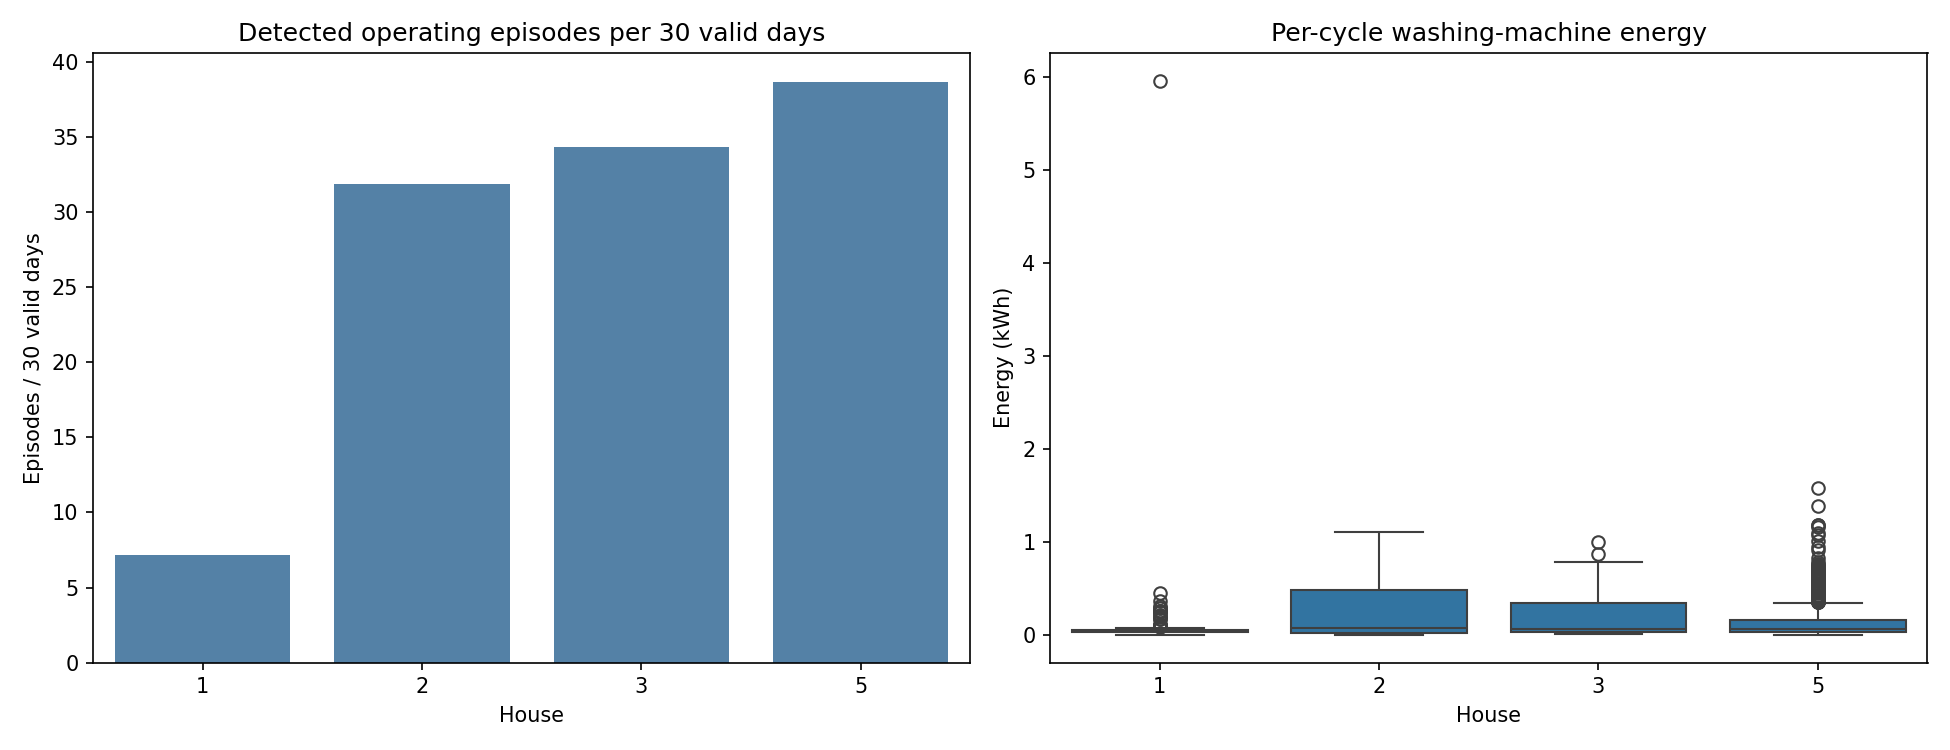
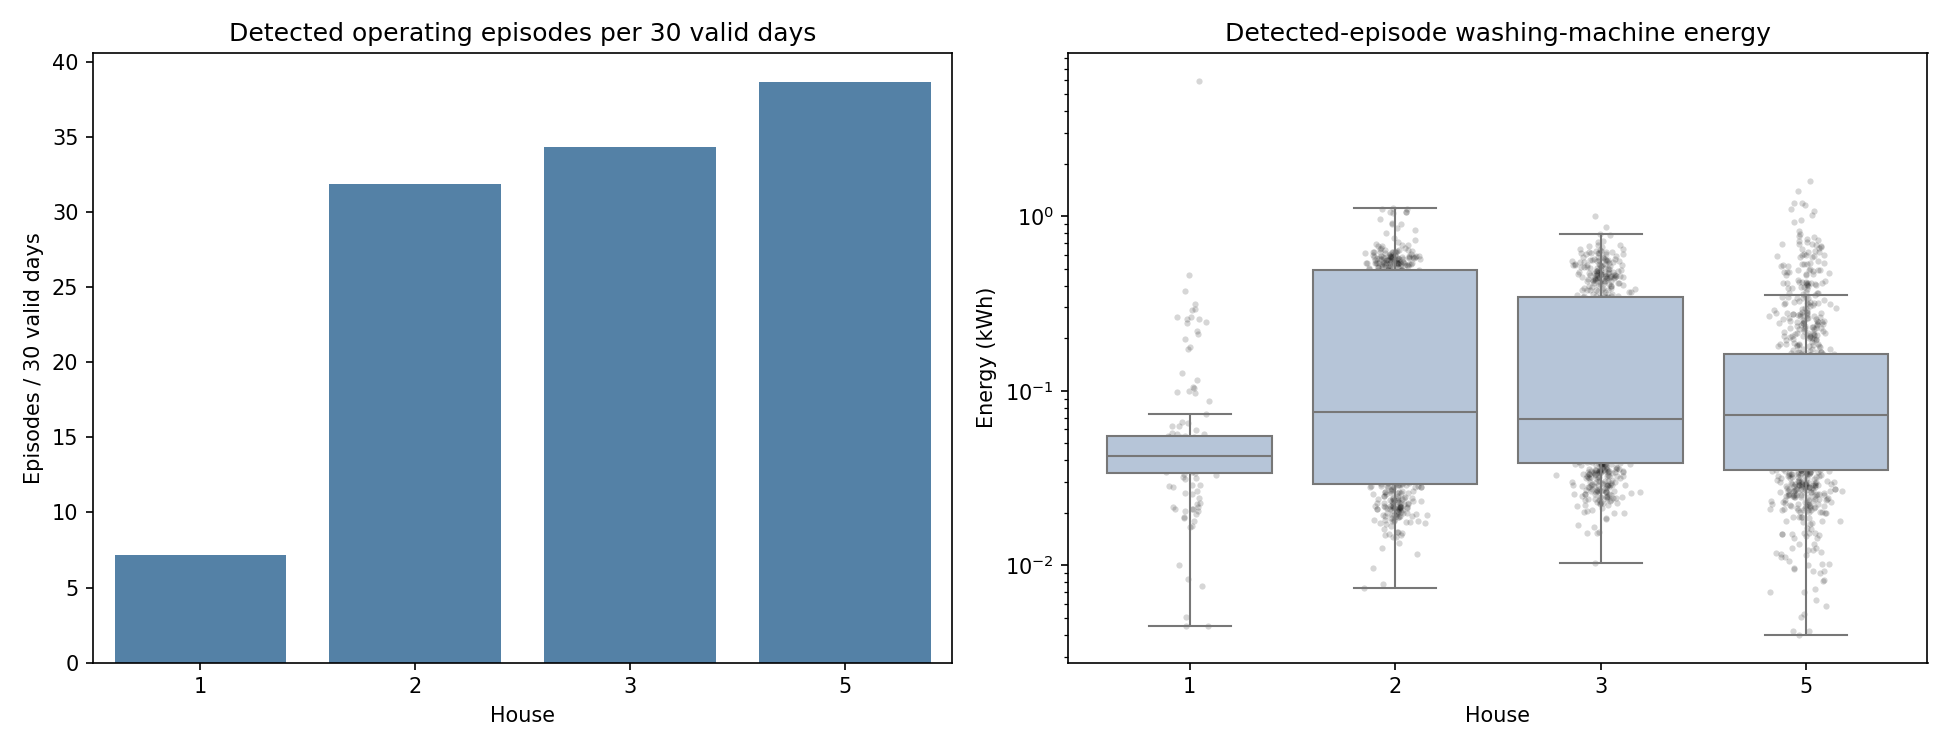
Expand washing machine EDA and organize reports

diff --git a/src/section2_washing_machine_eda.py b/src/section2_washing_machine_eda.py
@@ -3,6 +3,7 @@
 from pathlib import Path
 
 import matplotlib.pyplot as plt
+import numpy as np
 import pandas as pd
 import seaborn as sns
 
@@ -22,6 +23,7 @@ def quality_summary(
 ) -> dict[str, int | float | str]:
     target = data["WashingMachine"]
     observed = target.notna()
+    active = observed & target.ge(WASHING_MACHINE_ACTIVE_THRESHOLD_W)
     daily_coverage = observed.groupby(data.index.normalize()).mean()
     valid_days = daily_coverage[daily_coverage >= 0.90].index
     valid_day_cycles = (
@@ -47,6 +49,10 @@ def quality_summary(
         ),
         "observed_washing_machine_minutes": int(observed.sum()),
         "days_with_at_least_90pct_target_coverage": len(valid_days),
+        "active_washing_machine_minutes": int(active.sum()),
+        "active_percent_of_observed_minutes": (
+            100 * active.sum() / observed.sum() if observed.sum() else 0.0
+        ),
         "off_minutes_below_10_w": int(off.sum()),
         "off_percent_of_observed_minutes": (
             100 * off.mean() if len(off) else 0.0
@@ -64,6 +70,12 @@ def quality_summary(
         ),
         "median_cycle_energy_kwh": (
             float(cycles["energy_kwh"].median()) if not cycles.empty else 0.0
+        ),
+        "p95_active_power_w": (
+            float(target[active].quantile(0.95)) if active.any() else 0.0
+        ),
+        "p99_active_power_w": (
+            float(target[active].quantile(0.99)) if active.any() else 0.0
         ),
     }
 
@@ -172,15 +184,221 @@ def plot_household_comparison(
     ]
     cycle_frame = pd.DataFrame(cycle_rows)
     if not cycle_frame.empty:
-        sns.boxplot(data=cycle_frame, x="house", y="energy_kwh", ax=axes[1])
+        sns.boxplot(
+            data=cycle_frame,
+            x="house",
+            y="energy_kwh",
+            ax=axes[1],
+            showfliers=False,
+            color="lightsteelblue",
+        )
+        generator = np.random.default_rng(42)
+        for position, house in enumerate(SELECTED_HOUSES):
+            energies = cycle_frame.loc[
+                cycle_frame["house"] == house, "energy_kwh"
+            ].to_numpy()
+            axes[1].scatter(
+                generator.normal(position, 0.06, len(energies)),
+                energies,
+                s=9,
+                alpha=0.16,
+                color="black",
+                linewidths=0,
+            )
+        axes[1].set_yscale("log")
+        axes[1].set_ylabel("Energy (kWh, log scale)")
     else:
         axes[1].text(0.5, 0.5, "No detected cycles", ha="center")
-    axes[1].set_title("Per-cycle washing-machine energy")
+    axes[1].set_title("Detected-episode washing-machine energy")
     axes[1].set_xlabel("House")
     axes[1].set_ylabel("Energy (kWh)")
     fig.tight_layout()
     output = FIG_DIR / "section2_household_comparison.png"
     fig.savefig(output, dpi=150)
+    plt.close(fig)
+    return output
+
+
+def build_monthly_coverage(house_data: dict[int, pd.DataFrame]) -> pd.DataFrame:
+    records = []
+    for house, data in house_data.items():
+        target = data["WashingMachine"]
+        for month, values in target.resample("MS"):
+            records.append(
+                {
+                    "house": house,
+                    "month": month,
+                    "expected_minutes": len(values),
+                    "observed_minutes": int(values.notna().sum()),
+                    "coverage_percent": (
+                        100 * values.notna().mean() if len(values) else 0.0
+                    ),
+                }
+            )
+    return pd.DataFrame(records)
+
+
+def build_daily_energy(house_data: dict[int, pd.DataFrame]) -> pd.DataFrame:
+    records = []
+    for house, data in house_data.items():
+        target = data["WashingMachine"]
+        grouped = target.resample("D")
+        daily = pd.DataFrame(
+            {
+                "observed_minutes": grouped.count(),
+                "energy_kwh": grouped.sum(min_count=1) / 60_000.0,
+                "coverage_percent": grouped.apply(
+                    lambda day: 100 * day.notna().mean()
+                ),
+            }
+        )
+        daily.loc[daily["coverage_percent"] < 90.0, "energy_kwh"] = float("nan")
+        for day, row in daily.iterrows():
+            records.append(
+                {
+                    "house": house,
+                    "date": day,
+                    "observed_minutes": int(row["observed_minutes"]),
+                    "coverage_percent": float(row["coverage_percent"]),
+                    "energy_kwh": row["energy_kwh"],
+                }
+            )
+    return pd.DataFrame(records)
+
+
+def plot_monthly_coverage(monthly: pd.DataFrame) -> Path:
+    fig, axis = plt.subplots(figsize=(13, 5))
+    for house, values in monthly.groupby("house"):
+        axis.plot(
+            values["month"],
+            values["coverage_percent"],
+            marker="o",
+            markersize=3,
+            linewidth=1.5,
+            label=f"House {house}",
+        )
+    axis.axhline(90, color="grey", linestyle="--", linewidth=1, label="90% reference")
+    axis.set_ylim(0, 105)
+    axis.set_title("Monthly washing-machine data availability")
+    axis.set_xlabel("Month")
+    axis.set_ylabel("Observed target minutes (%)")
+    axis.grid(alpha=0.25)
+    axis.legend(ncol=3)
+    fig.tight_layout()
+    output = FIG_DIR / "section2_monthly_data_coverage.png"
+    fig.savefig(output, dpi=160)
+    plt.close(fig)
+    return output
+
+
+def plot_daily_energy(daily_energy: pd.DataFrame) -> Path:
+    fig, axes = plt.subplots(2, 2, figsize=(14, 8), sharex=True)
+    for axis, house in zip(axes.flat, SELECTED_HOUSES):
+        data = daily_energy[daily_energy["house"] == house].set_index("date")
+        valid = data["energy_kwh"].dropna()
+        if valid.empty:
+            axis.text(0.5, 0.5, "No days meet the coverage rule", ha="center")
+            axis.set_title(f"House {house}: daily washing-machine energy")
+            axis.set_ylabel("Energy (kWh/day)")
+            continue
+
+        percentile_99 = float(valid.quantile(0.99))
+        y_limit = max(percentile_99 * 1.1, 0.02)
+        typical_days = valid[valid <= percentile_99]
+        high_days = valid[valid > percentile_99]
+        axis.scatter(
+            typical_days.index,
+            typical_days,
+            s=8,
+            alpha=0.25,
+            color="steelblue",
+            label="Valid day",
+        )
+        if not high_days.empty:
+            axis.scatter(
+                high_days.index,
+                np.full(len(high_days), y_limit * 0.97),
+                marker="^",
+                s=24,
+                color="firebrick",
+                label=f">99th percentile (n={len(high_days)})",
+            )
+        rolling = typical_days.rolling("14D", min_periods=5).mean()
+        axis.plot(
+            rolling.index,
+            rolling,
+            color="darkorange",
+            linewidth=1.8,
+            label="14-day mean (typical days)",
+        )
+        axis.set_title(f"House {house}: daily washing-machine energy")
+        axis.set_ylabel("Energy (kWh/day)")
+        axis.set_ylim(0, y_limit)
+        if not high_days.empty:
+            axis.text(
+                0.02,
+                0.94,
+                f"Max observed: {valid.max():.2f} kWh/day",
+                transform=axis.transAxes,
+                va="top",
+                fontsize=8,
+            )
+        axis.grid(alpha=0.2)
+    for axis in axes[-1, :]:
+        axis.set_xlabel("Date")
+    fig.suptitle(
+        "Daily energy (valid days only; blue dots <=P99, red triangles >P99; "
+        "orange = 14-day typical-day mean)",
+        y=1.01,
+    )
+    fig.tight_layout()
+    output = FIG_DIR / "section2_daily_energy.png"
+    fig.savefig(output, dpi=160)
+    plt.close(fig)
+    return output
+
+
+def plot_normalized_cycle_profiles(
+    house_data: dict[int, pd.DataFrame],
+    cycles_by_house: dict[int, pd.DataFrame],
+) -> Path:
+    progress = np.linspace(0.0, 1.0, 101)
+    fig, axes = plt.subplots(2, 2, figsize=(13, 8), sharex=True)
+    for axis, house in zip(axes.flat, SELECTED_HOUSES):
+        power = house_data[house]["WashingMachine"]
+        profiles = []
+        for cycle in cycles_by_house[house].itertuples(index=False):
+            start = power.index.get_indexer([cycle.start])[0]
+            stop = power.index.get_indexer([cycle.end])[0]
+            if start < 0 or stop <= start:
+                continue
+            values = power.iloc[start : stop + 1].to_numpy(dtype=float)
+            valid = np.isfinite(values)
+            if valid.sum() < 2:
+                continue
+            source_progress = np.linspace(0.0, 1.0, len(values))[valid]
+            profiles.append(
+                np.interp(progress, source_progress, values[valid])
+            )
+
+        if profiles:
+            values = np.stack(profiles)
+            median = np.median(values, axis=0)
+            lower, upper = np.quantile(values, [0.25, 0.75], axis=0)
+            axis.fill_between(progress * 100, lower, upper, alpha=0.2)
+            axis.plot(progress * 100, median, linewidth=1.8)
+            axis.set_title(f"House {house}: median profile (n={len(profiles)} episodes)")
+        else:
+            axis.text(0.5, 0.5, "No valid operating episodes", ha="center")
+            axis.set_title(f"House {house}")
+        axis.set_ylabel("Washing-machine power (W)")
+        axis.grid(alpha=0.2)
+    for axis in axes[-1, :]:
+        axis.set_xlabel("Episode progress (%)")
+    fig.suptitle("Washing-machine operating-episode profiles", y=1.01)
+    fig.tight_layout()
+    output = FIG_DIR / "section2_normalized_cycle_profiles.png"
+    fig.savefig(output, dpi=160, bbox_inches="tight")
     plt.close(fig)
     return output
 
@@ -279,6 +497,8 @@ def run() -> None:
         ]
     )
     usage_profile = build_usage_profile(house_data, cycles_by_house)
+    monthly_coverage = build_monthly_coverage(house_data)
+    daily_energy = build_daily_energy(house_data)
     cycle_frames = [
         cycles.assign(house=house)
         for house, cycles in cycles_by_house.items()
@@ -288,15 +508,22 @@ def run() -> None:
     summary_path = PROC_DIR / "section2_household_summary.csv"
     cycles_path = PROC_DIR / "section2_detected_cycles.csv"
     usage_path = PROC_DIR / "section2_usage_profile.csv"
+    monthly_path = PROC_DIR / "section2_monthly_coverage.csv"
+    daily_energy_path = PROC_DIR / "section2_daily_energy.csv"
     summary.to_csv(summary_path, index=False)
     cycles.to_csv(cycles_path, index=False)
     usage_profile.to_csv(usage_path, index=False)
+    monthly_coverage.to_csv(monthly_path, index=False)
+    daily_energy.to_csv(daily_energy_path, index=False)
 
     plots = [
         plot_representative_day(house_data),
         plot_example_cycles(house_data, cycles_by_house),
         plot_household_comparison(summary, cycles_by_house),
         plot_start_time_heatmap(usage_profile),
+        plot_monthly_coverage(monthly_coverage),
+        plot_daily_energy(daily_energy),
+        plot_normalized_cycle_profiles(house_data, cycles_by_house),
     ]
     print("Cycle rule: >=10 W for at least 5 observed minutes,")
     print(
@@ -307,6 +534,8 @@ def run() -> None:
     print(f"\nSummary: {summary_path}")
     print(f"Detected cycles: {cycles_path}")
     print(f"Normalized usage profile: {usage_path}")
+    print(f"Monthly coverage: {monthly_path}")
+    print(f"Daily energy: {daily_energy_path}")
     print("Figures:")
     for plot in plots:
         print(f"- {plot}")

diff --git a/RESULTS.md b/RESULTS.md
@@ -32,14 +32,19 @@ Off time is the share of nonmissing one-minute target readings below 10 W. Episo
 
 Across the four homes, normalized starts are most common in daytime hours, particularly around 08:00–12:00. Saturday has the highest average detected-episode start rate per valid day, followed by Sunday and Friday. This is descriptive only; small household counts, missing data, and the heuristic event definition limit generalization.
 
+The monthly coverage plot makes discontinuous coverage and long gaps visible; a household's overall missing percentage alone can hide when those gaps occurred. Daily energy is calculated only for days with at least 90% target coverage. For readability, each daily-energy panel is capped at its own 99th percentile: triangles mark values above the cap, the maximum is annotated, and the generated CSV retains the original uncapped values. Normalized episode profiles show the median and interquartile range across episodes; broad bands indicate variable episode shapes, and normalizing progress intentionally removes duration differences.
+
 ### Figures
 
 - [Representative 24-hour aggregate and washing-machine trace](./figures/section2_representative_day.png) — House 1, on a day containing a detected episode. The two axes show whole-home and appliance power at one-minute resolution.
 - [Detected operating episodes](./figures/section2_example_cycles.png) — first detected episode in each selected home, with surrounding aggregate and appliance load.
-- [Cross-house comparison](./figures/section2_household_comparison.png) — operating-episode rate per 30 valid days and per-episode energy distributions. Normalization avoids comparing raw counts from unequal coverage.
+- [Cross-house comparison](./figures/section2_household_comparison.png) — operating-episode rate per 30 valid days and detected-episode energy distributions. Normalization avoids comparing raw counts from unequal coverage.
 - [Usage by hour and weekday](./figures/section2_usage_by_hour_weekday.png) — mean episode starts per valid household-day, so homes with longer records do not dominate the heatmap.
+- [Monthly data coverage](./figures/section2_monthly_data_coverage.png) — observed target minutes by month and household.
+- [Daily washing-machine energy](./figures/section2_daily_energy.png) — valid days only; high outliers are marked rather than removed from the underlying data.
+- [Normalized episode profiles](./figures/section2_normalized_cycle_profiles.png) — median power and interquartile range over normalized episode progress for each home.
 
-The detailed machine-readable outputs are generated under `data/processed/`: household availability summary, detected episodes, and normalized time-of-use profile.
+The detailed machine-readable outputs are generated under `data/processed/`: `section2_household_summary.csv`, `section2_detected_cycles.csv`, `section2_usage_profile.csv`, `section2_monthly_coverage.csv`, and `section2_daily_energy.csv`. These are generated locally and excluded from Git; rerun the Section 2 script to recreate them.
 
 ## 3. Build and evaluate an appliance-disaggregation model
 

diff --git a/README.md b/README.md
@@ -42,11 +42,20 @@ python src\run_analysis.py
 
 Individual scripts are also available as `src\section1_raw_cleaning.py`, `src\section2_washing_machine_eda.py`, and `src\section3_disaggregation.py`. Generated CSVs are written under `data/processed/` and figures under `figures/`. Generated processed CSVs and downloaded source archives are excluded from Git.
 
+## Project layout
+
+- `src/`: reusable loaders and the Section 1–3 analysis scripts.
+- `figures/`: generated, report-ready plots; rerun the analysis scripts to refresh them.
+- `data/processed/`: generated CSV summaries and predictions (local outputs, not committed).
+- `notebooks/`: reserved for notebooks. A pre-existing exploratory notebook is retained locally under `notebooks/archive/`; it has stale outputs and is not the reproducible analysis path.
+- `DATA.md`, `RESULTS.md`, and `Recommendation.md`: assignment reports.
+
 ## Reproducibility and design
 
 - Section 1 uses the raw House 1 files, keeps the last row for duplicate timestamps in sorted filename/source order (so Part 2 supersedes Part 1 in the overlap), sorts chronologically, and resamples to one-minute means.
 - Only internal missing gaps up to two minutes are time-interpolated. Longer and edge gaps remain missing and are reported.
 - Readings over 10 kW are flagged, not automatically removed or clipped.
+- Section 2 generates seven plots: the representative day, detected episodes, cross-house comparison, usage heatmap, monthly coverage, daily energy, and normalized episode profiles. The daily-energy plot caps each panel at its 99th percentile for readability; high days are marked, and the CSV retains uncapped values.
 - Section 3 compares Random Forest, two-stage LightGBM, a Seq2Point CNN, and a causal sequence-to-sequence TCN with an always-off baseline. Activity thresholds are selected on a training-side held-out household; final evaluation holds out House 5. Model predictions are not considered suitable for customer-facing estimates unless they improve on the baseline and are validated across more homes.
 - Washing-machine channels are documented in `src\washing_machine_mapping.py` based on the official cleaned-data readme.
 

diff --git a/notebooks/README.md b/notebooks/README.md
@@ -1,0 +1,5 @@
+# Notebooks
+
+The reproducible analysis is maintained in `src/` and run with `python src\run_analysis.py`.
+
+The earlier root-level exploratory notebook has been moved to `notebooks/archive/` for local reference only. Its saved outputs predate the current scripts and may be stale; the archive is excluded from Git so those cached results are not mistaken for current findings. Use the scripts and regenerate the figures and CSV outputs for the authoritative analysis.
